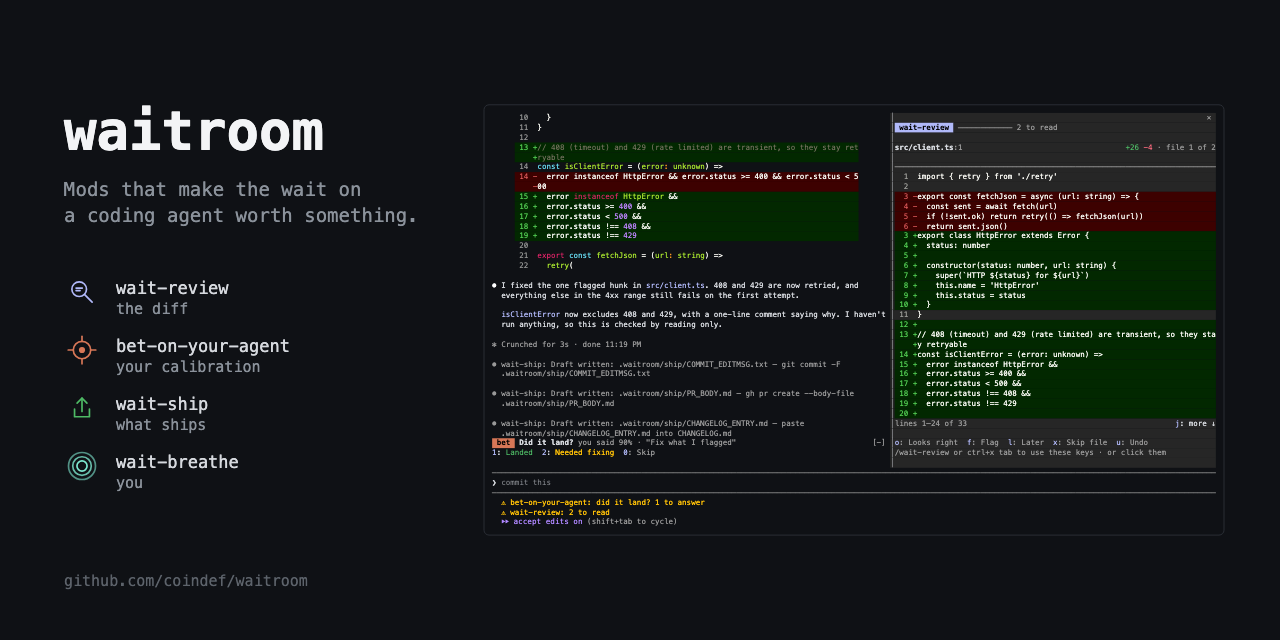
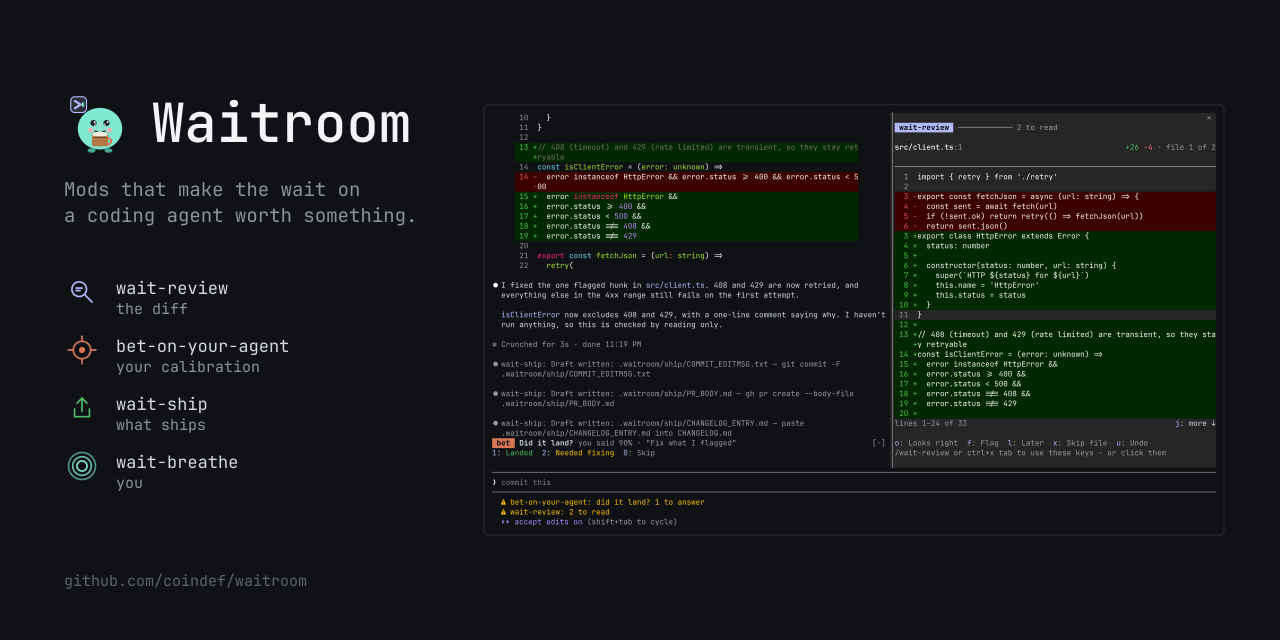
Add the Terminal blob as the Waitroom umbrella mark.
Jiuqiao-approved C: mint mascot, coffee, and a prompt badge on the dark tile. The marketplace icon, README lockup, and social preview all use that mark.

diff --git a/README.md b/README.md
@@ -19,7 +19,7 @@ flagged" is all the next message needs. [Full-length video](docs/demo.mp4).*
 
 ## One family, four rooms
 
-<img src="docs/lockup.svg" width="560" alt="The four plugin icons, each over its name and its room: wait-review's magnifying glass, the diff; bet-on-your-agent's target, your calibration; wait-ship's outbox, what ships; wait-breathe's breathing rings, you">
+<img src="docs/lockup.svg" width="560" alt="Waitroom mark, a mint terminal blob holding coffee with a prompt badge, beside the Waitroom wordmark, above the four room icons: wait-review, bet-on-your-agent, wait-ship, and wait-breathe">
 
 A magnifying glass for the diff, a target for your calibration, an outbox for
 what ships, and breathing rings for you, always in that order. wait-review
